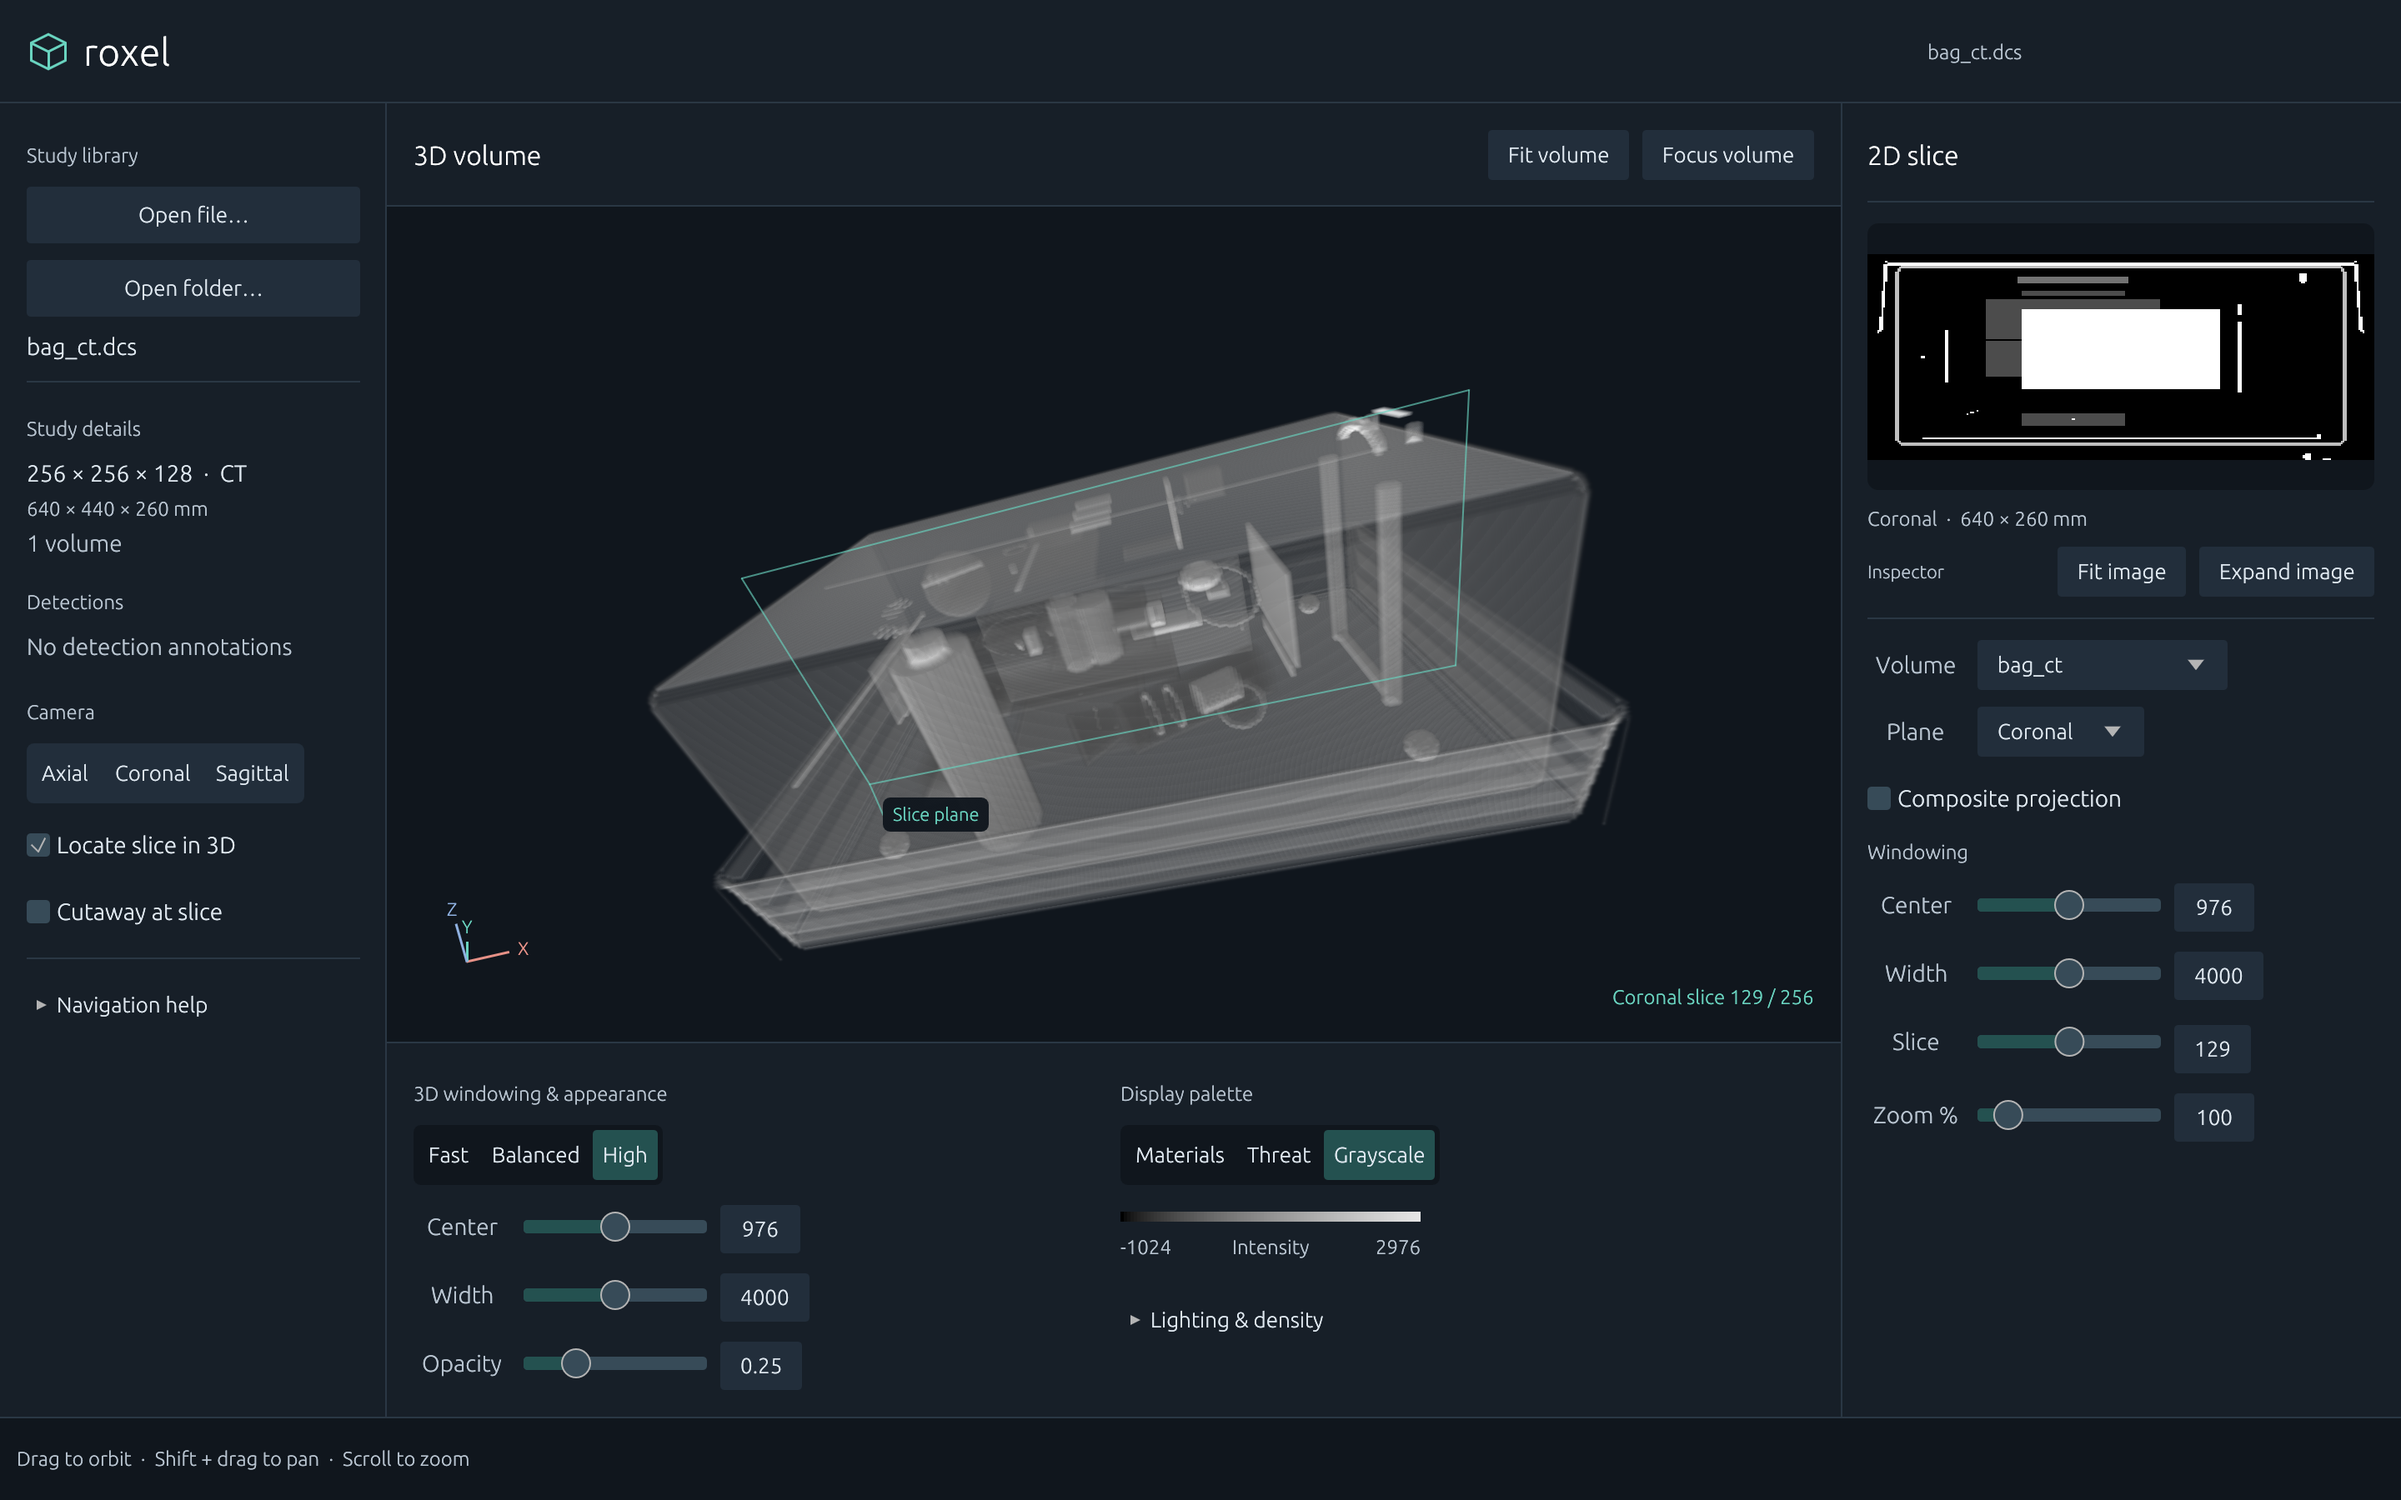
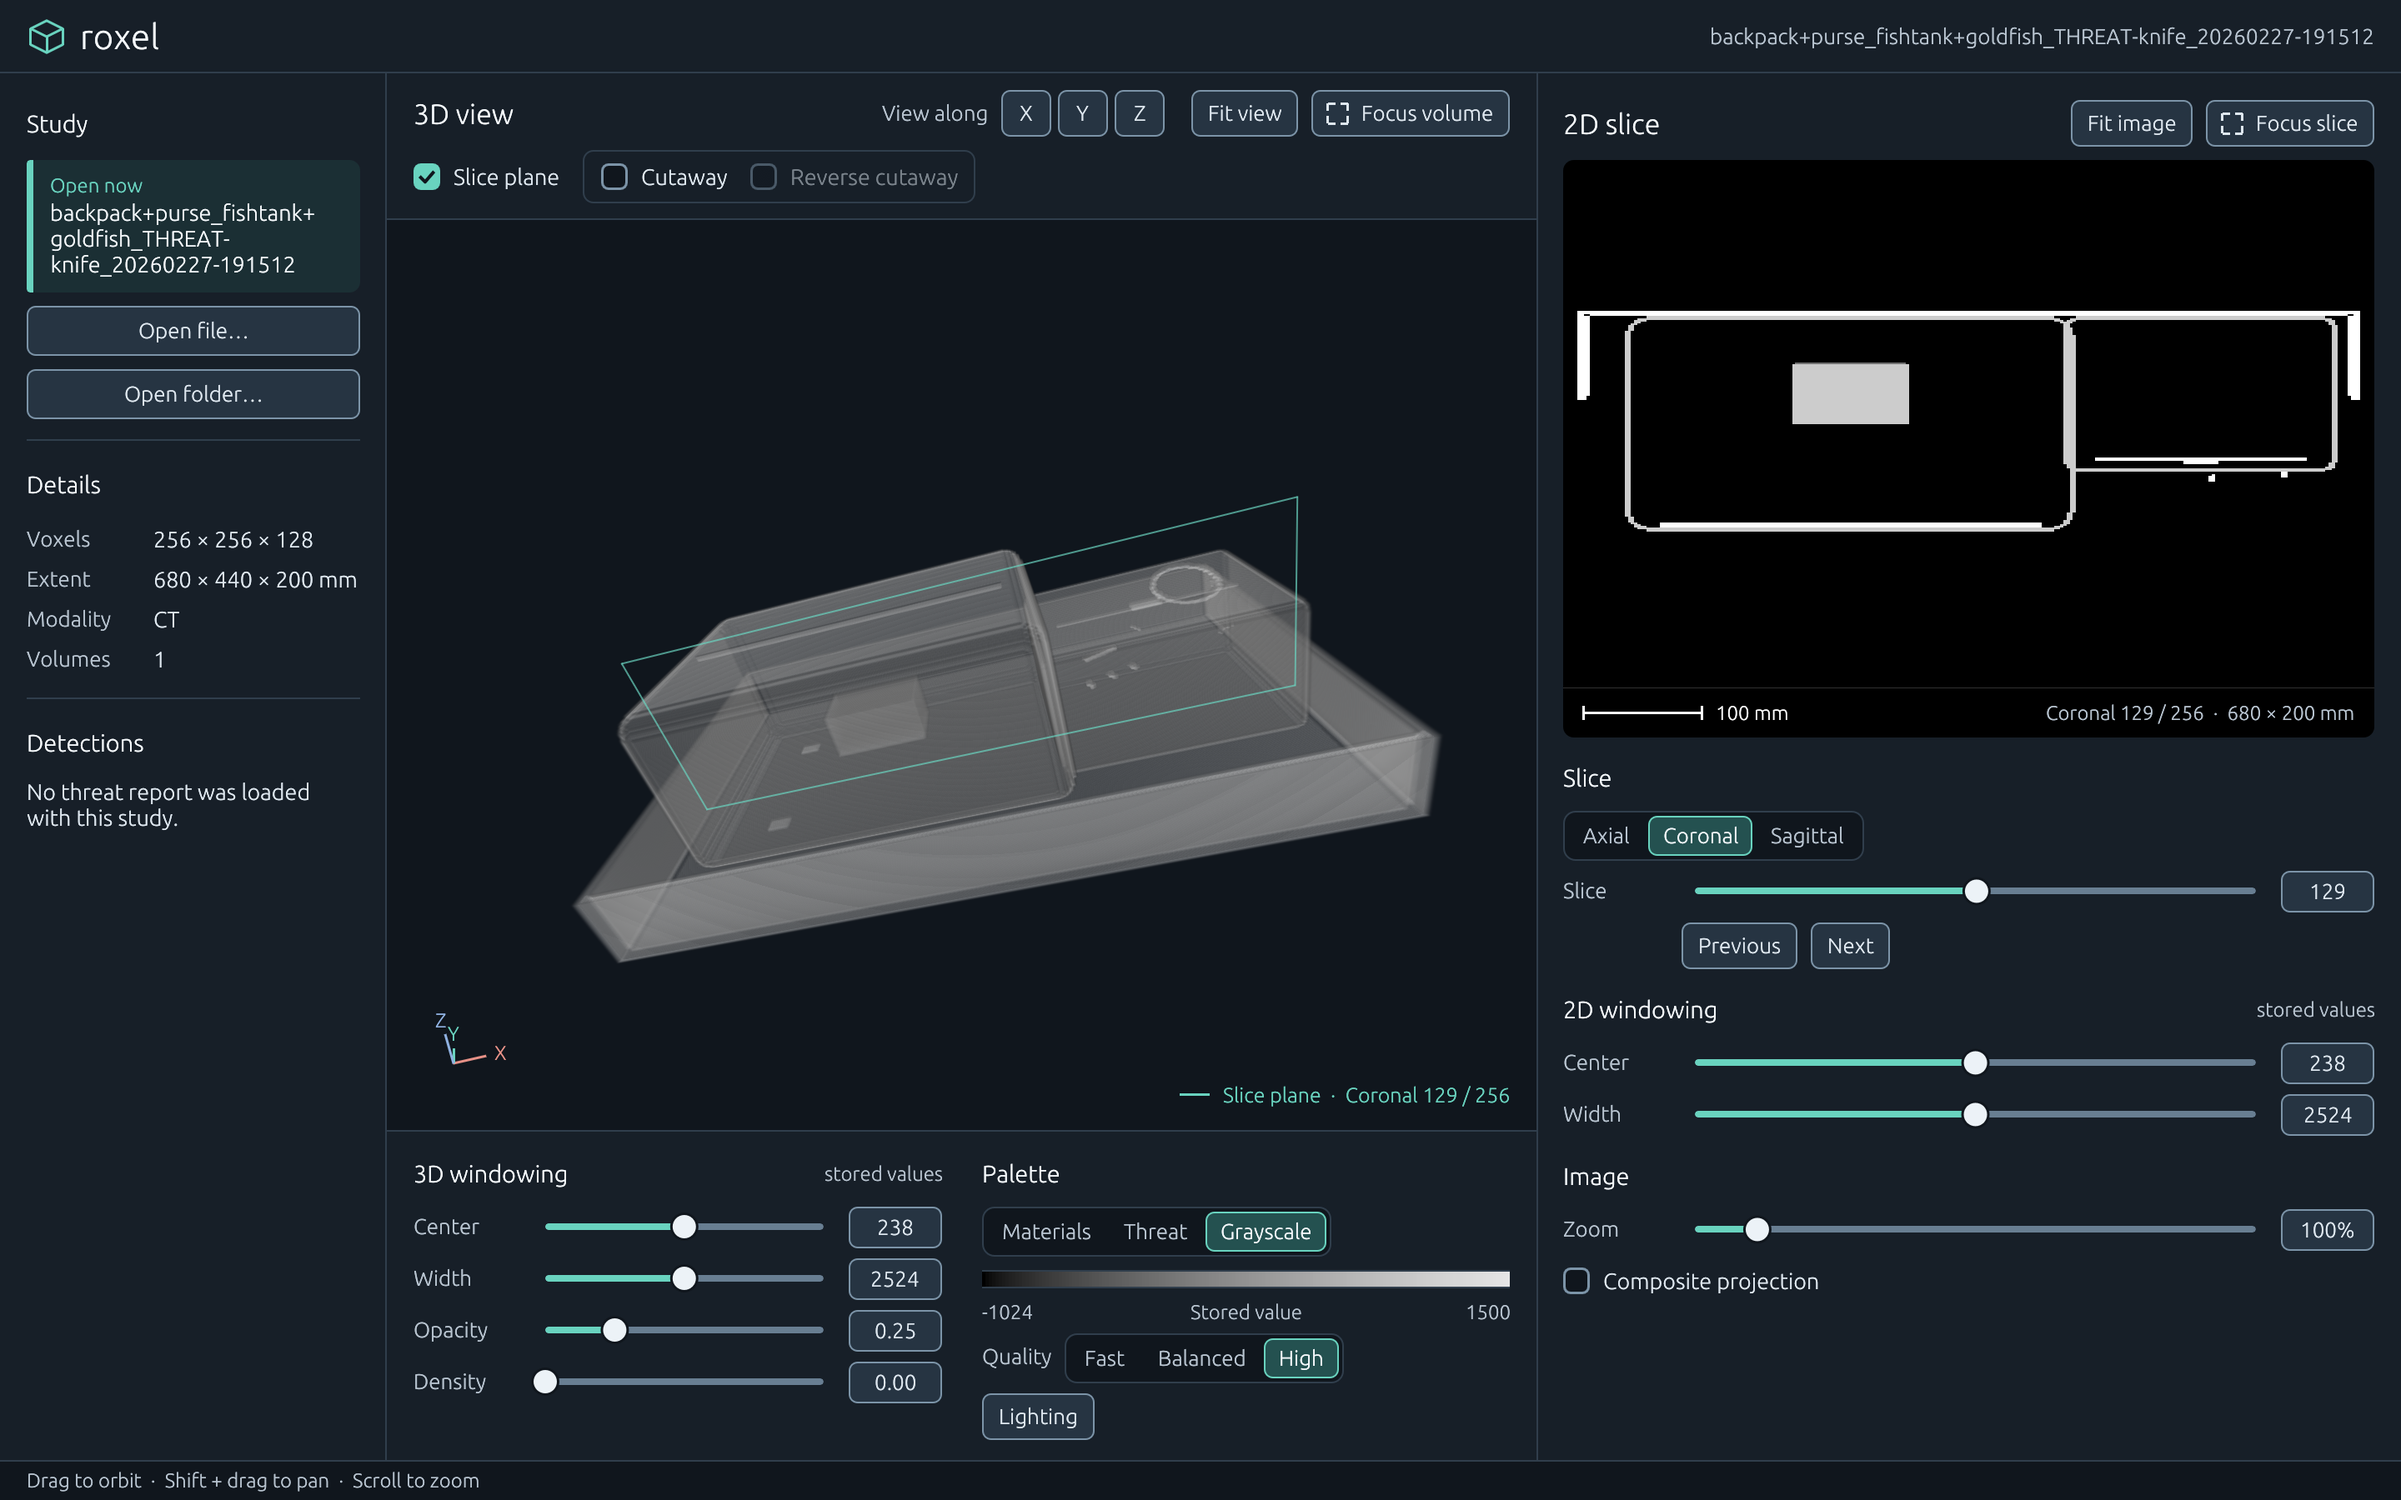
docs(roxel): describe the touch layout and unified focus views; refresh hero image

diff --git a/crates/roxel/README.md b/crates/roxel/README.md
@@ -58,10 +58,18 @@ trunk serve --release --no-autoreload       # http://127.0.0.1:8080
 
 ## Inspect a study
 
-The library sits on the left, the 3D view in the center, and the slice inspector
-on the right. Rendering controls sit below the 3D view. Sidebars and the controls
-shelf can be resized; long study names truncate with the full identifier on hover.
-The minimum window size is 1100 × 720 logical pixels.
+The study panel sits on the left, the 3D view in the center, and the slice
+inspector on the right. Rendering controls sit below the 3D view. Long study names
+are shortened in the middle in the app bar and shown in full in the study panel.
+The native minimum window size is 1100 × 720 logical pixels.
+
+Narrow or short viewports (for example a phone browser) switch to a touch layout:
+a bottom tab bar with **Study**, **Detections**, **2D slice** and **3D view**. The
+selected view fills the main area and its controls sit in a paged sheet, below it
+in portrait and beside it in landscape. Tap the selected view's tab to hide or
+show the sheet. Every drag gesture has a button alternative (orbit/pan arrows,
+zoom −/+, slice −/+). The layout follows the available logical size, not the
+platform; it has not yet been tested on a physical iPhone.
 
 New studies open with an oblique, automatically fitted 3D view and a mid-coronal
 2D slice. Grayscale, High sampling quality, and 25% global opacity are the
@@ -74,17 +82,17 @@ more distant samples. These are display transforms, not changes to voxel data. A
 | Left-drag in the 3D viewport | Orbit |
 | Shift + left-drag | Pan |
 | Scroll in the 3D viewport | Zoom |
-| Axial / Coronal / Sagittal | Snap and fit the camera |
-| Fit volume | Recenter and frame the complete volume |
-| Focus volume | Enlarge the volume; keep windowing, opacity, palette and lighting available |
+| View along X / Y / Z | Snap and fit the camera along a volume axis |
+| Fit view | Recenter and frame the complete volume |
+| Focus volume | Enlarge the volume in place; keep slice, cutaway, windowing, palette and lighting available |
 | Escape / Exit focus | Return to the workspace |
-| Locate slice in 3D | Outline the selected voxel-center plane |
-| Cutaway at slice | Hide voxels before the selected plane to expose the remaining interior |
+| Slice plane | Outline the selected voxel-center plane |
+| Cutaway | Hide voxels before the selected plane to expose the remaining interior |
 
 The axis triad shows **volume X/Y/Z**, not patient anatomical directions. The
 slice locator and cutaway apply only when 2D and 3D display the same volume and
 the 2D view is a single slice. Cutaway retains the half-volume at or after the
-selected slice along the selected array axis. **Reverse cutaway** retains the opposite half; the plane label names the retained axis direction. It does not edit or export data.
+selected slice along the selected array axis. **Reverse cutaway** retains the opposite half. It does not edit or export data.
 Annotation boxes describe their original positions and are not cut away.
 
 ## Slice inspection
@@ -96,11 +104,13 @@ and width controls affect the 2D view independently of the 3D controls. Slider
 tracks use the study's initial window for useful adjustment resolution; numeric
 entry permits a wider range. Values are not labelled as calibrated HU.
 
-**Expand image** opens a modal inspector with a large fitted image, previous/next
-buttons, an editable slice number, a wide navigation slider, windowing and zoom.
-Drag the enlarged image to pan when zoomed; **Fit image** restores 100% fit.
-**Back to workspace**, Escape, or clicking the backdrop closes the inspector.
-Nearest-neighbor image sampling preserves the visible source pixels. Both views preserve physical aspect ratios from voxel spacing; slice captions report the physical field of view. The expanded inspector keeps the study identifier visible and includes a physical scale bar that follows zoom.
+**Focus slice** enlarges the slice in place, the same way **Focus volume**
+enlarges the 3D view. It keeps the plane selector, previous/next buttons, an
+editable slice number, windowing and zoom. Drag the enlarged image to pan when
+zoomed; **Fit image** restores 100% fit. **Exit focus** or Escape returns to the
+workspace. In phone portrait, a wide slice is drawn turned 90° to use the screen,
+and is captioned as turned.
+Nearest-neighbor image sampling preserves the visible source pixels. Both views preserve physical aspect ratios from voxel spacing; slice captions report the physical field of view. Slice views include a physical scale bar that follows zoom.
 
 ## Appearance
 
@@ -110,7 +120,7 @@ Nearest-neighbor image sampling preserves the visible source pixels. Both views 
 | Materials | Five named density bands, editable thresholds and opacity |
 | Threat | Red density highlight; does not itself identify threats |
 
-**Lighting & density** reveals ambient, diffuse, specular, depth cue and density
+**Lighting** reveals ambient, diffuse, specular, depth cue and density
 cutoff. Material bands are hidden until requested. Quality selects Fast,
 Balanced or High ray-march sampling. Opacity is corrected for the physical distance represented by each ray sample, so changing sampling quality does not intentionally change optical thickness. Extremely long rays use a coarser step to preserve full-volume coverage within the step budget. High costs more GPU work; choose Balanced
 or Fast on slower hardware. No performance benchmark is implied by the labels.
